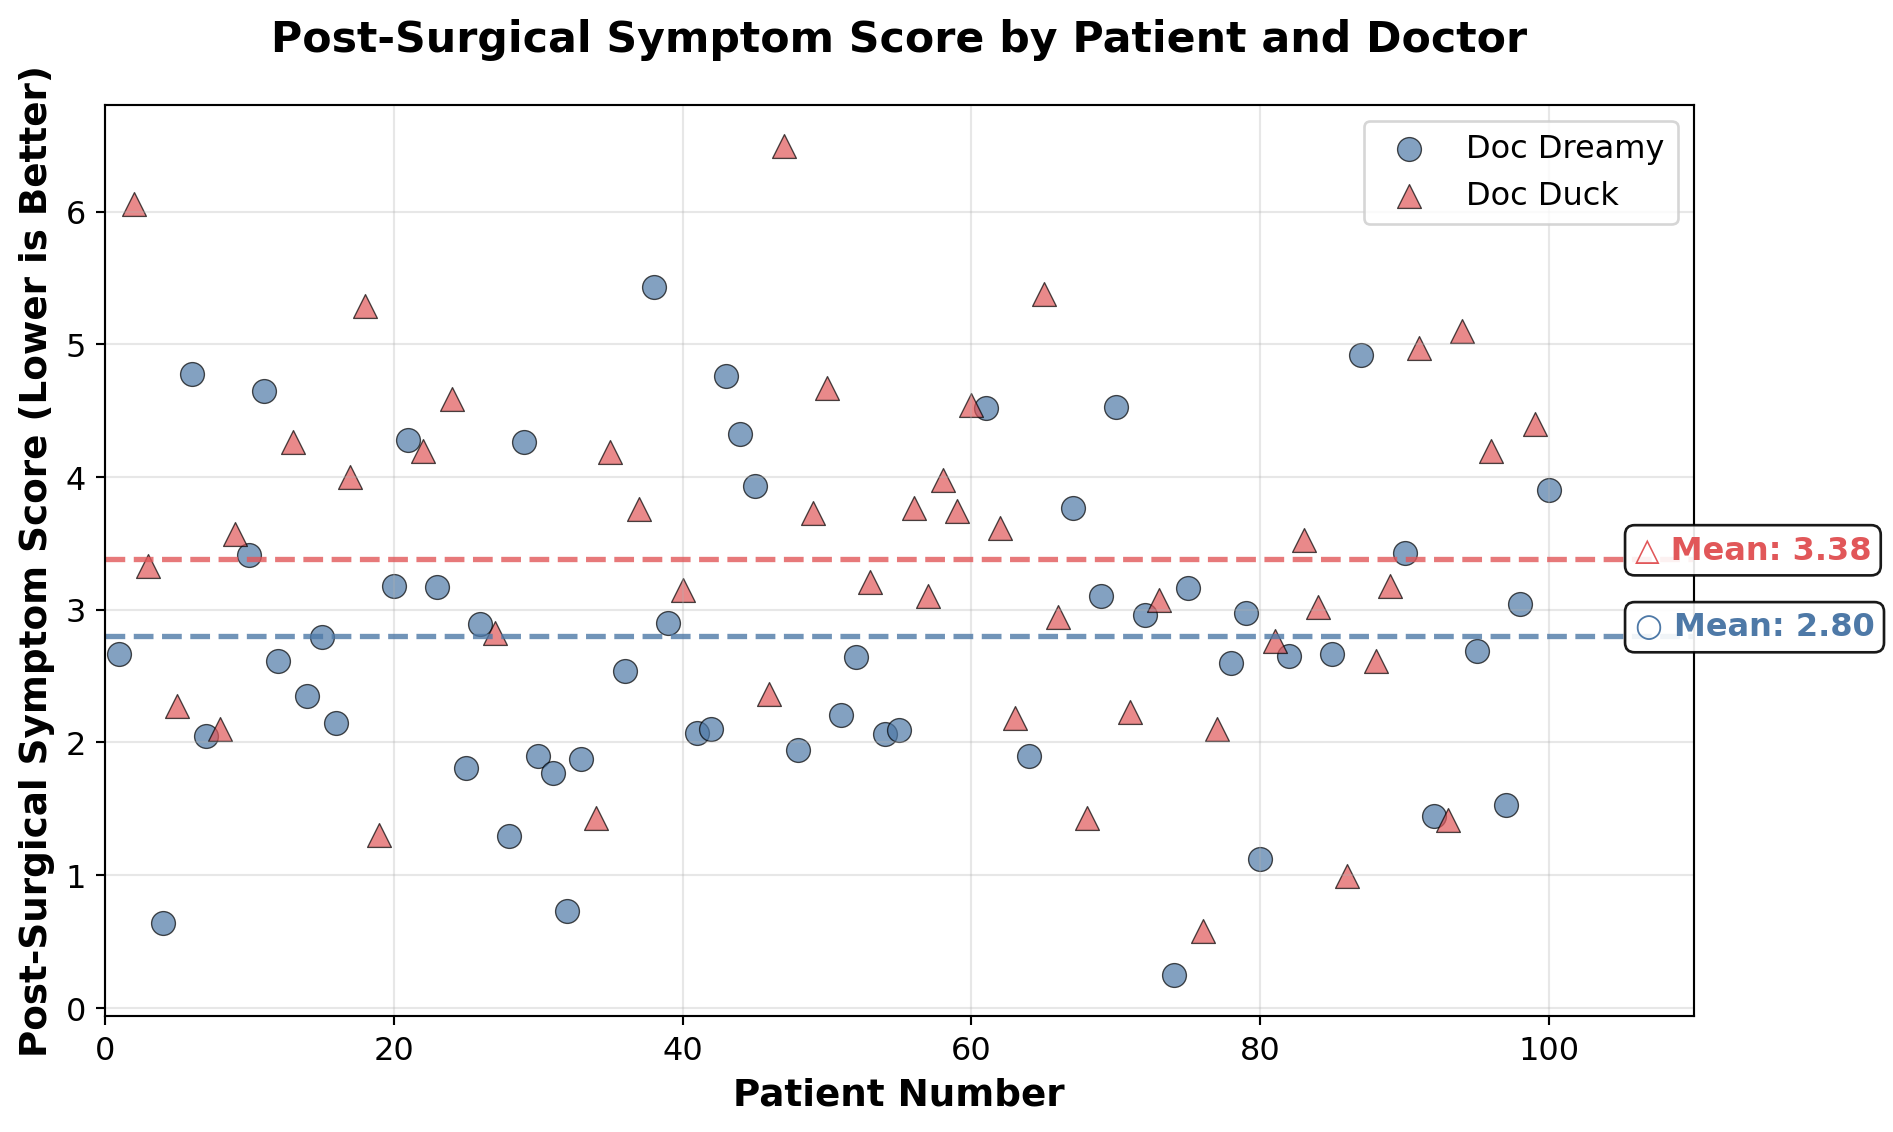
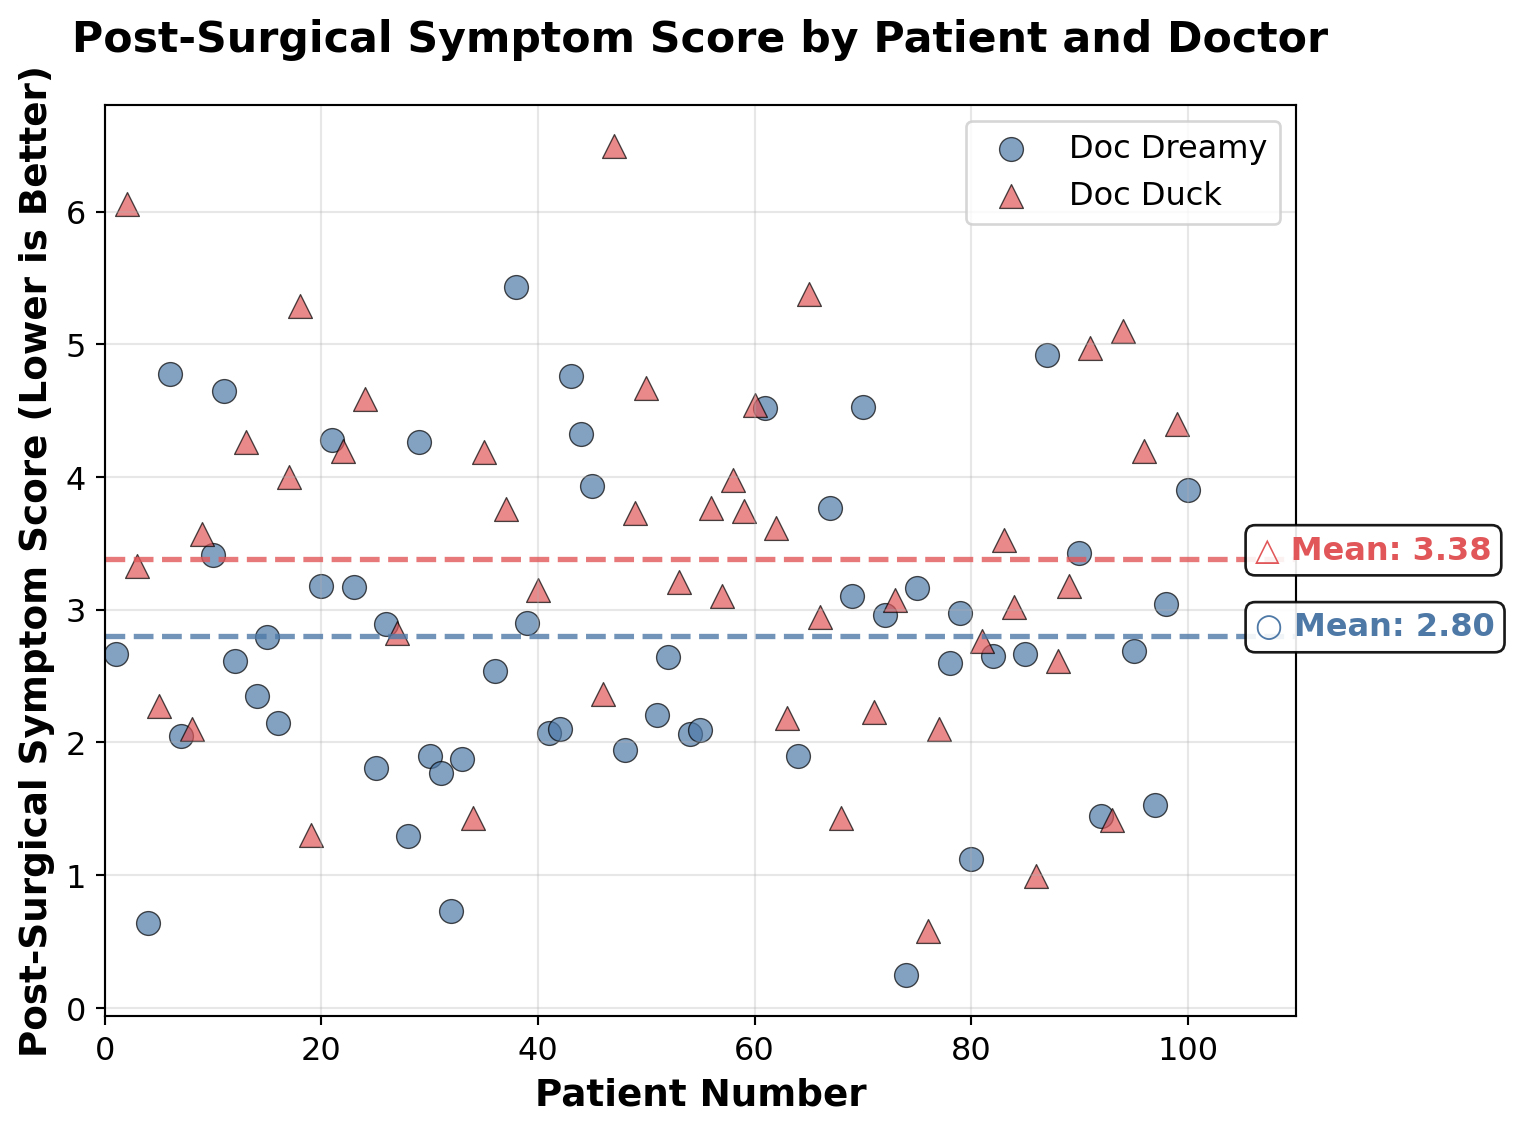
final

diff --git a/index.html b/index.html
@@ -147,7 +147,7 @@ window.Quarto = {
 <div class="cell-output cell-output-stdout">
 <pre><code>Number of patients: 100</code></pre>
 </div>
-<div id="load-data-python" class="cell-output cell-output-display" data-execution_count="19">
+<div id="load-data-python" class="cell-output cell-output-display" data-execution_count="54">
 <div>
 
 
@@ -219,7 +219,7 @@ window.Quarto = {
 <div id="fig-plot-outcomes" class="quarto-float quarto-figure quarto-figure-center anchored">
 <figure class="quarto-float quarto-float-fig figure">
 <div aria-describedby="fig-plot-outcomes-caption-0ceaefa1-69ba-4598-a22c-09a6ac19f8ca">
-<img src="index_files/figure-html/fig-plot-outcomes-output-1.png" width="947" height="566" class="figure-img">
+<img src="index_files/figure-html/fig-plot-outcomes-output-1.png" width="757" height="566" class="figure-img">
 </div>
 <figcaption class="quarto-float-caption-bottom quarto-float-caption quarto-float-fig" id="fig-plot-outcomes-caption-0ceaefa1-69ba-4598-a22c-09a6ac19f8ca">
 Figure&nbsp;1: Post-Surgical Symptom Score (lower is better) - Observed Data
@@ -256,19 +256,6 @@ Figure&nbsp;3: DAG Model Explaining Surgical Outcomes
 </figure>
 </div>
 <p>A possible common-cause story would go something like this. Both surgeons have full schedules, with Dr.&nbsp;Dreamy scheduling surgeries 3 weeks in advance and Dr.&nbsp;Duck scheduling surgeries 1 week in advance. As such, patients who are not in a rush, usually those with low severity, are more likely to choose Dr.&nbsp;Dreamy based on his website and picture. However, patients who are in more of a rush, usually those with high severity, are more likely to choose Dr.&nbsp;Duck based on his availability and the fact that he is the only surgeon who can see them immediately.</p>
-<div class="callout callout-style-default callout-warning no-icon callout-titled" title="Assumption: Slow Progression of Patient Severity">
-<div class="callout-header d-flex align-content-center">
-<div class="callout-icon-container">
-<i class="callout-icon no-icon"></i>
-</div>
-<div class="callout-title-container flex-fill">
-<span class="screen-reader-only">Warning</span>Assumption: Slow Progression of Patient Severity
-</div>
-</div>
-<div class="callout-body-container callout-body">
-<p>For simplicity, we assume that patient severity progresses slowly enough that a 2-week delay (i.e., waiting for Dr.&nbsp;Dreamy’s availability) has zero effect on surgical outcomes. This delay affects only how quickly patients receive surgical relief, not the eventual outcome itself. While time-to-surgery can be an important factor in other contexts, here we focus solely on whether initial patient severity might create a spurious or biased association between surgeon choice and outcomes.</p>
-</div>
-</div>
 </section>
 <section id="solution-1-randomization-break-the-confounding-path" class="level2">
 <h2 class="anchored" data-anchor-id="solution-1-randomization-break-the-confounding-path">Solution 1: Randomization — Break the Confounding Path</h2>
@@ -287,19 +274,6 @@ Figure&nbsp;4: DAG Model Explaining Surgical Outcomes
 <p><a href="#fig-example3-node" class="quarto-xref">Figure&nbsp;4</a> shows the DAG model for the randomization scenario. In this scenario, patient severity (<span class="math inline">\(Z\)</span>) is no longer a cause of surgeon choice (<span class="math inline">\(X\)</span>). Instead, randomization (<span class="math inline">\(R\)</span>) completely determines surgeon assignment (<span class="math inline">\(X\)</span>). This breaks the confounding relationship between patient severity and surgeon choice, allowing us to assess whether the surgeons themselves truly matter for surgical outcomes.</p>
 <section id="our-data-doesnt-have-counterfactuals-how-can-we-know-what-would-have-happened-to-those-patients-if-we-had-randomized" class="level3">
 <h3 class="anchored" data-anchor-id="our-data-doesnt-have-counterfactuals-how-can-we-know-what-would-have-happened-to-those-patients-if-we-had-randomized">Our data doesn’t have counterfactuals, how can we know what would have happened to those patients if we had randomized?</h3>
-<div class="callout callout-style-default callout-note no-icon callout-titled" title="What is a counterfactual?">
-<div class="callout-header d-flex align-content-center">
-<div class="callout-icon-container">
-<i class="callout-icon no-icon"></i>
-</div>
-<div class="callout-title-container flex-fill">
-<span class="screen-reader-only">Note</span>What is a counterfactual?
-</div>
-</div>
-<div class="callout-body-container callout-body">
-<p>A <em>counterfactual</em> is the answer to a “what if” question: what would have happened if circumstances had been different? Specifically, what would each patient’s outcome have been if they had been assigned to the <em>other</em> surgeon, holding everything else constant? These are the unobserved alternative outcomes—the outcomes that didn’t happen but could have happened under different treatment assignment.</p>
-</div>
-</div>
 <p>Unfortunately, we can’t observe what didn’t happen. The patients we already observed went to the surgeon they chose (or who was available), and we’ll never know their outcomes under the alternative assignment. This is the fundamental problem of causal inference: we only see one world, not the parallel universe where everything else was held constant but the treatment differed.</p>
 <p>Since we cannot rerun history with randomization, we run an experiment to collect the data we need. So, we randomly assigned a sequence of 100 patients to either Dr.&nbsp;Dreamy or Dr.&nbsp;Duck and observed the following data:</p>
 </section>
@@ -310,7 +284,7 @@ Figure&nbsp;4: DAG Model Explaining Surgical Outcomes
 <div class="cell-output cell-output-stdout">
 <pre><code>Number of randomized patients: 100</code></pre>
 </div>
-<div id="load-data-randomized-python" class="cell-output cell-output-display" data-execution_count="22">
+<div id="load-data-randomized-python" class="cell-output cell-output-display" data-execution_count="57">
 <div>
 
 
@@ -377,18 +351,12 @@ Figure&nbsp;4: DAG Model Explaining Surgical Outcomes
 <section id="post-surgical-outcomes-by-patient-randomized-assignment" class="level2">
 <h2 class="anchored" data-anchor-id="post-surgical-outcomes-by-patient-randomized-assignment">Post-Surgical Outcomes by Patient (Randomized Assignment)</h2>
 <p>To demonstrate how randomization breaks confounding relationships, we examine the same analysis with randomized patient assignment. The following scatter plot uses the same format as the observational data but with randomized assignment:</p>
-<ul>
-<li>Same styling as Figure 1 (markers, colors, mean lines, annotations)</li>
-<li>Title should indicate this is randomized assignment</li>
-<li>Same colorblind-friendly color scheme</li>
-<li>Professional styling consistent with Figure 1</li>
-</ul>
 <div id="cell-fig-plot-outcomes-randomized" class="cell" data-execution_count="6">
 <div class="cell-output cell-output-display">
 <div id="fig-plot-outcomes-randomized" class="quarto-float quarto-figure quarto-figure-center anchored">
 <figure class="quarto-float quarto-float-fig figure">
 <div aria-describedby="fig-plot-outcomes-randomized-caption-0ceaefa1-69ba-4598-a22c-09a6ac19f8ca">
-<img src="index_files/figure-html/fig-plot-outcomes-randomized-output-1.png" width="983" height="566" class="figure-img">
+<img src="index_files/figure-html/fig-plot-outcomes-randomized-output-1.png" width="711" height="516" class="figure-img">
 </div>
 <figcaption class="quarto-float-caption-bottom quarto-float-caption quarto-float-fig" id="fig-plot-outcomes-randomized-caption-0ceaefa1-69ba-4598-a22c-09a6ac19f8ca">
 Figure&nbsp;5: Post-Surgical Symptom Score (lower is better) for randomized patients.
@@ -405,22 +373,12 @@ Figure&nbsp;5: Post-Surgical Symptom Score (lower is better) for randomized pati
 <section id="post-surgical-outcomes-by-patient-severity-stratification" class="level2">
 <h2 class="anchored" data-anchor-id="post-surgical-outcomes-by-patient-severity-stratification">Post-Surgical Outcomes by Patient Severity (Stratification)</h2>
 <p>When randomization is not feasible, stratification provides an alternative approach to control for confounding. The following scatter plot shows post-surgical outcomes as a function of initial patient severity:</p>
-<ul>
-<li>X-axis: Initial Patient Severity</li>
-<li>Y-axis: Post-Surgical Symptom Score (Lower is Better)</li>
-<li>Scatter points colored/marked by doctor (same scheme as previous figures)</li>
-<li>Mean horizontal lines for each doctor</li>
-<li>A rectangular overlay (shaded region) highlighting severity between -1 and 1</li>
-<li>Text annotations for means positioned appropriately</li>
-<li>Title: “Post-Surgical Symptom Score by Patient Severity”</li>
-<li>This figure should reveal the confounding by showing how severity affects both surgeon assignment and outcomes</li>
-</ul>
 <div id="cell-fig-plot-outcomes-severity" class="cell" data-execution_count="7">
 <div class="cell-output cell-output-display">
 <div id="fig-plot-outcomes-severity" class="quarto-float quarto-figure quarto-figure-center anchored">
 <figure class="quarto-float quarto-float-fig figure">
 <div aria-describedby="fig-plot-outcomes-severity-caption-0ceaefa1-69ba-4598-a22c-09a6ac19f8ca">
-<img src="index_files/figure-html/fig-plot-outcomes-severity-output-1.png" width="935" height="566" class="figure-img">
+<img src="index_files/figure-html/fig-plot-outcomes-severity-output-1.png" width="750" height="566" class="figure-img">
 </div>
 <figcaption class="quarto-float-caption-bottom quarto-float-caption quarto-float-fig" id="fig-plot-outcomes-severity-caption-0ceaefa1-69ba-4598-a22c-09a6ac19f8ca">
 Figure&nbsp;6: Post-Surgical Symptom Score (lower is better) by Patient and Severity
